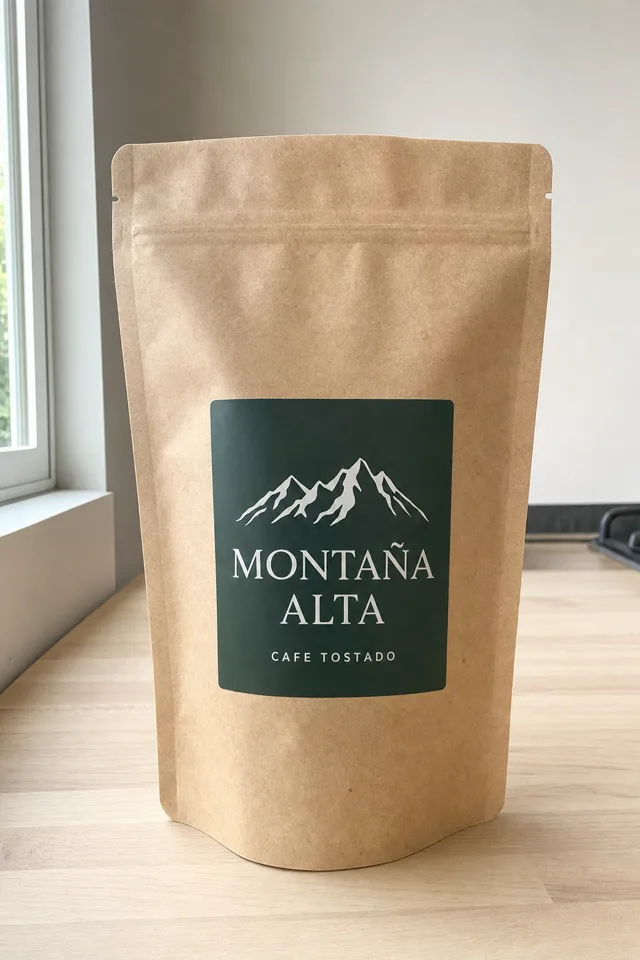
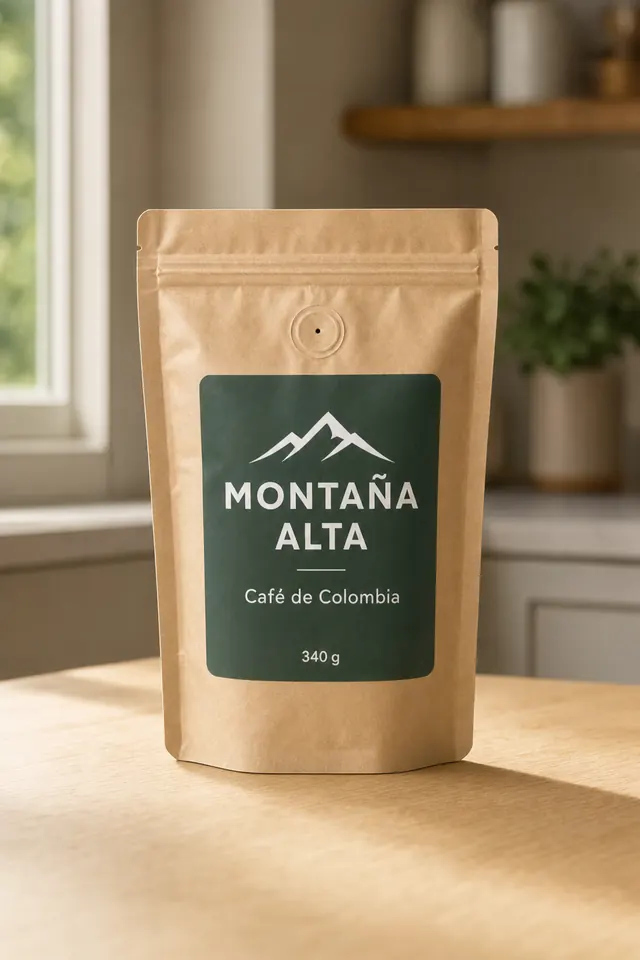
r17: los ocho defectos del crítico ciego de la ronda 16
El 11.º crítico ciego dijo SÍ y puso el rediseño PRIMERO (A > B > C, la vara
segunda), pero trajo ocho defectos que no había visto ninguno de los diez
anteriores. Estos son los arreglos.

🔴 1 · «La prueba no prueba». El envase de "la foto que entró" no era el de "el
     video que salió": etiqueta serif con montaña a línea y «CAFÉ TOSTADO»
     arriba, sans con montaña maciza, «Café de Colombia» y «340 g» en el video
     — mientras el pie afirmaba «el video salió de esa foto». En la única
     sección que pide que se le crea por la vista, la imagen desmentía al texto.
     Arreglado por las dos puntas: la foto se regenera con GPT Images 2 DESDE un
     fotograma del propio video, así que el envase coincide, y el pie dice ahora
     lo que de verdad ocurrió —las dos imágenes son de IA y la de arriba es la
     foto de catálogo que entraría— en vez de insinuar una cadena que no hubo.

🟠 2 · El diagrama, cuatro cosas. (a) Una punta de flecha apuntaba al VACÍO:
     el canal derecho nacía 6 px tras el borde de la fila y el punto de entrada
     caía 1 px más allá, así que el último tramo iba al revés y `orient="auto"`
     giraba la punta 180°. (b) Dos conectores corrían 295 y 317 px a 5 y 8 px de
     los bordes de nodo y se leían como doble filete. Las dos se cierran con
     SEP_NODO=22 y CANAL=13. (c) El dibujo estaba 16 px descentrado en su
     columna: ahora se reserva el mismo hueco a los dos lados. (d) «Envíos
[…]

diff --git a/estilo.css b/estilo.css
@@ -760,9 +760,13 @@ a  { color: inherit; }
    tinta del pie llegue al mismo borde que el filete que tiene encima. */
 @media (min-width: 1152px) {
   .pie__marca    { grid-column: 1 / span 4; }
-  .pie__nav      { grid-column: 5 / span 2; }
-  .pie__legal    { grid-column: 7 / span 2; }
-  .pie__contacto { grid-column: 9 / -1; text-align: right; }
+  /* r16 · «canales de 134, 103 y 318 px: el tercero es tres veces el segundo».
+     Con la última columna cerrando contra el margen, el hueco se acumulaba antes
+     de ella. Las tres columnas de enlaces se corren una posición a la derecha
+     (6, 8, 10 — sigue siendo regular) y el canal mayor baja a ~205 px. */
+  .pie__nav      { grid-column: 6 / span 2; }
+  .pie__legal    { grid-column: 8 / span 2; }
+  .pie__contacto { grid-column: 10 / -1; text-align: right; }
   .pie__contacto ul { justify-items: end; }
 }
 
@@ -1130,6 +1134,12 @@ a  { color: inherit; }
    así que la moneda entra también en la cabecera de la columna. */
 .cab-moneda { opacity: 0.7; font-weight: 400; }
 
+/* r16 · «la cabecera PAQUETE empieza en x=61 y las cuatro etiquetas de fila en
+   x=76: 15 px de desfase, y se nota porque el resto de la tabla está cuadrado al
+   píxel». Cierto: el sangrado se le dio a las filas para dejarle sitio al acento
+   de la recomendada, y la cabecera se quedó fuera. Va con ellas. */
+.tabla-precio thead th:first-child { padding-left: 0.9rem; }
+
 /* 21e · "Crecimiento no alinea con los otros tres nombres". Cierto: su texto
    arranca en x=34,4 y los demás en x=21 — 13,4 px, porque el acento de la
    fila recomendada se metía en el flujo con un padding-left. El acento sale
@@ -1183,8 +1193,13 @@ a  { color: inherit; }
     align-items: start; height: auto; padding-block: 1.7rem;
     border-top: 1px solid rgba(169, 184, 255, 0.14);
   }
-  .opiniones blockquote p { max-width: 58ch; }
-  .opiniones blockquote cite { margin-top: 0; padding-top: 0.3rem; text-align: right; }
+  /* r16 · «la cita 3 termina en x=446 y "Leonardo" empieza en x=1.312: 866 px de
+     vacío entre una frase y quien la dijo». La firma estaba en una segunda columna
+     fija de 14rem alineada a la derecha, así que cuanto más corta la cita, más
+     lejos quedaba su autor. Baja debajo de su cita, que es donde se lee. */
+  .opiniones blockquote { display: block; }
+  .opiniones blockquote p { max-width: 68ch; }
+  .opiniones blockquote cite { margin-top: 0.9rem; padding-top: 0; text-align: left; }
   .opiniones__pie { max-width: 72ch; }
 }
 
@@ -1223,7 +1238,11 @@ a.servicio__etiqueta:hover { color: var(--blanco); }
    corta a media página y no continúa". Cierto: al añadir la quinta garantía
    en la ronda 7 quedó una celda huérfana. La quinta cruza las dos columnas y
    la rejilla vuelve a cerrar. */
-@media (min-width: 900px) { .garantias__ancha { grid-column: 1 / -1; } }
+/* r16 · «tres filas de la misma retícula, dos estilos de filete; y la tercera
+   solo tiene contenido a la izquierda: la celda derecha, 639x72 px, está vacía
+   bajo un filete de 639 px que encabeza la nada». La causa era esta regla, que
+   estiraba la quinta garantía a las dos columnas. Sin ella las cinco miden lo
+   mismo y todos los filetes son de media columna. */
 
 /* 22d · "3 erratas RAE: el punto queda dentro de las comillas de cierre, en
    los tres testimonios". Cierto. En español el punto va SIEMPRE después de

diff --git a/index.html b/index.html
@@ -122,10 +122,18 @@
           <img src="media/fotograma-2.jpg" alt="Fotograma del video: plano del empaque en primer plano" width="440" height="782" loading="lazy" decoding="async">
           <img src="media/fotograma-3.jpg" alt="Fotograma del video: cierre con la marca visible" width="440" height="782" loading="lazy" decoding="async">
         </div>
-        <!-- Honestidad sobre el origen del material: la foto de entrada está
-             generada con IA, igual que el video. Decirlo cuesta una línea y evita
-             que parezca que hay un cliente detrás. No hay ninguno. -->
-        <p class="prueba__pie">«Montaña Alta» es un producto de muestra que usamos para demostrar, no un cliente: la foto de arriba está generada con IA y el video salió de esa foto. Los tres fotogramas son del video que se reproduce al principio de la página.</p>
+        <!-- Honestidad sobre el origen del material: las dos imágenes están
+             generadas con IA. Decirlo cuesta una línea y evita que parezca que hay
+             un cliente detrás. No hay ninguno.
+             r16 · el crítico ciego midió que el envase de la foto y el del video NO
+             eran el mismo —etiqueta serif con montaña a línea y «CAFÉ TOSTADO»
+             arriba; sans con montaña maciza, «Café de Colombia» y «340 g» en el
+             video— mientras el pie afirmaba «el video salió de esa foto». En una
+             sección titulada «Míralo», la imagen desmentía al texto. Arreglado por
+             las dos puntas: la foto se ha regenerado desde un fotograma del propio
+             video, así que el envase coincide, y la frase dice ahora lo que de
+             verdad ocurrió en vez de dar a entender una cadena que no existió. -->
+        <p class="prueba__pie">«Montaña Alta» es un producto de muestra que usamos para demostrar, no un cliente: <b>las dos imágenes están generadas con IA</b>. La de arriba es la foto de catálogo que recibiríamos como entrada, del mismo envase que sale en el video. Los tres fotogramas son del video que se reproduce al principio de la página.</p>
       </div>
     </div>
   </section>
